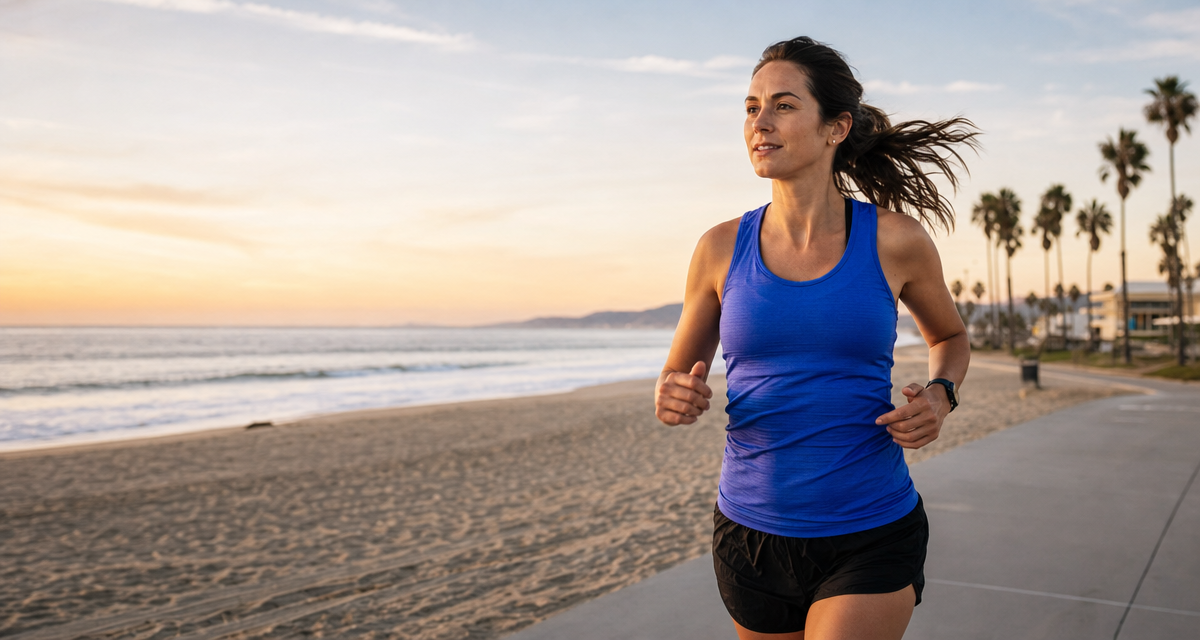
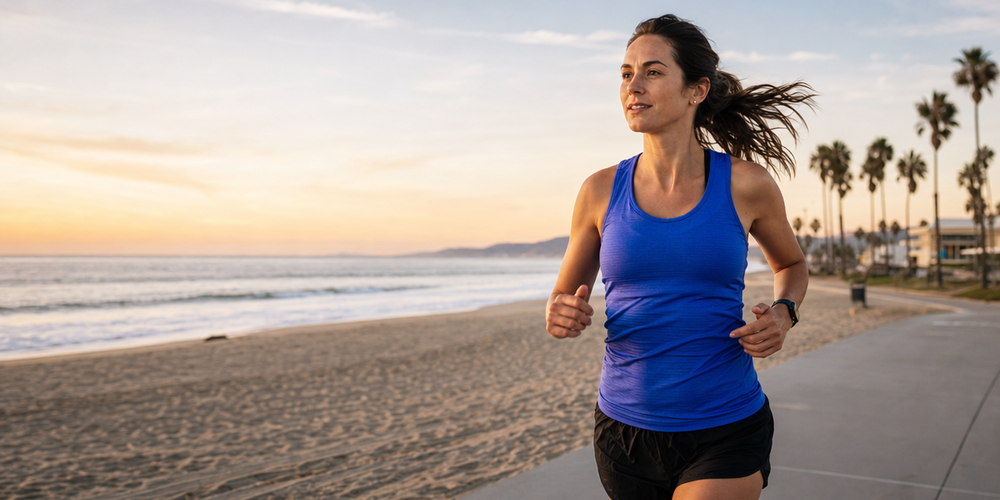
Align LA Marathon emails with asset specifications

diff --git a/emails/la-marathon-2026/asics-la-marathon.html b/emails/la-marathon-2026/asics-la-marathon.html
@@ -1,6 +1,6 @@
 <!doctype html>
 <html lang="en"><head><meta charset="utf-8"><meta name="viewport" content="width=device-width,initial-scale=1"><title>ASICS LA Marathon × RunDot</title><style>@media screen and (max-width:640px){.wrap{width:100%!important}.pad{padding-left:24px!important;padding-right:24px!important}.hero-title{font-size:35px!important;line-height:39px!important}.event-logo{max-width:155px!important;height:auto!important}.cta{display:block!important;text-align:center!important}}</style></head>
-<body style="margin:0;padding:0;background:#e9edf1;font-family:Arial,Helvetica,sans-serif;"><div style="display:none;max-height:0;overflow:hidden;opacity:0;mso-hide:all;">Your free personalized ASICS LA Marathon training plan starts today.</div>
+<body style="margin:0;padding:0;background:#e9edf1;font-family:Arial,Helvetica,sans-serif;"><div style="display:none;max-height:0;overflow:hidden;opacity:0;mso-hide:all;">Your plan awaits</div>
 <table role="presentation" width="100%" cellspacing="0" cellpadding="0" border="0" style="background:#e9edf1;"><tr><td align="center" style="padding:28px 8px;"><table class="wrap" role="presentation" width="600" cellspacing="0" cellpadding="0" border="0" style="width:600px;max-width:600px;background:#ffffff;">
 <tr><td style="background:#080a0c;padding:19px 32px 15px;"><table role="presentation" width="100%" cellspacing="0" cellpadding="0" border="0"><tr><td valign="middle"><img class="event-logo" src="assets/la-marathon-lockup.png" alt="ASICS Los Angeles Marathon" width="175" style="display:block;border:0;width:175px;height:auto;max-width:175px;"></td><td align="right" valign="middle"><img src="assets/rundot-logo.svg" alt="RunDot" width="88" style="display:block;border:0;width:88px;height:auto;"></td></tr></table></td></tr>
 <tr><td align="center" style="background:#080a0c;border-top:1px solid #28303a;padding:10px 20px 11px;color:#39ff14;font-size:10px;line-height:14px;letter-spacing:1.25px;font-weight:bold;">OFFICIAL DIGITAL TRAINING PLATFORM OF THE LA MARATHON RACE SERIES</td></tr>
@@ -10,6 +10,6 @@
 <tr><td class="pad" style="padding:26px 48px 13px;"><div style="font-size:20px;line-height:28px;color:#0e1725;font-weight:bold;">Your registration includes a free personalized training plan:</div></td></tr>
 <tr><td class="pad" style="padding:9px 48px 16px;"><table role="presentation" width="100%" cellspacing="0" cellpadding="0" border="0" style="background:#101b2d;"><tr><td style="padding:22px 23px 6px;"><table role="presentation" width="100%" cellspacing="0" cellpadding="0" border="0"><tr><td valign="top" width="23" style="color:#39ff14;font-size:20px;line-height:25px;font-weight:bold;">+</td><td style="padding:0 0 14px;color:#eef3f8;font-size:16px;line-height:24px;">Built from your real fitness: first marathon or PR attempt</td></tr><tr><td valign="top" width="23" style="color:#39ff14;font-size:20px;line-height:25px;font-weight:bold;">+</td><td style="padding:0 0 14px;color:#eef3f8;font-size:16px;line-height:24px;">Adapts every week, so one rough stretch never derails your buildup</td></tr><tr><td valign="top" width="23" style="color:#39ff14;font-size:20px;line-height:25px;font-weight:bold;">+</td><td style="padding:0 0 14px;color:#eef3f8;font-size:16px;line-height:24px;">Trains you for LA’s actual course conditions</td></tr><tr><td valign="top" width="23" style="color:#39ff14;font-size:20px;line-height:25px;font-weight:bold;">+</td><td style="padding:0 0 14px;color:#eef3f8;font-size:16px;line-height:24px;">Syncs with Garmin, Apple Watch, and more</td></tr></table></td></tr></table></td></tr>
 <tr><td class="pad" style="padding:13px 48px 12px;color:#0e1725;font-size:16px;line-height:25px;">Free to start. No credit card required.</td></tr>
-<tr><td align="center" class="pad" style="padding:18px 48px 43px;"><a class="cta" href="https://promo.rundot.com?promo=RUNLAM3" style="display:inline-block;background:#39ff14;color:#080a0c;text-decoration:none;padding:17px 25px;font-size:12px;line-height:15px;font-weight:bold;letter-spacing:.9px;">START MY MARATHON PLAN</a><div style="padding:21px 8px 0;color:#46566b;font-size:15px;line-height:23px;">On March 7, 25,000 runners will start. The prepared ones will love every mile of it. Be one of them.</div></td></tr>
+<tr><td align="center" class="pad" style="padding:18px 48px 43px;"><a class="cta" href="https://promo.rundot.com?promo=RUNLAM3" style="display:inline-block;background:#39ff14;color:#080a0c;text-decoration:none;padding:17px 25px;font-size:12px;line-height:15px;font-weight:bold;letter-spacing:.9px;">START MY PLAN</a><div style="padding:21px 8px 0;color:#46566b;font-size:15px;line-height:23px;">On March 7, 25,000 runners will start. The prepared ones will love every mile of it. Be one of them.</div></td></tr>
 <tr><td style="background:#080a0c;padding:23px 32px;"><table role="presentation" width="100%" cellspacing="0" cellpadding="0" border="0"><tr><td><img src="assets/rundot-logo.svg" alt="RunDot" width="117" height="24" style="display:block;border:0;width:117px;height:24px;"></td><td align="right" style="color:#b9c3ce;font-size:11px;line-height:16px;">For runners who want more than miles.</td></tr></table></td></tr>
 </table></td></tr></table></body></html>

diff --git a/emails/la-marathon-2026/santa-monica-classic.html b/emails/la-marathon-2026/santa-monica-classic.html
@@ -1,6 +1,6 @@
 <!doctype html>
 <html lang="en"><head><meta charset="utf-8"><meta name="viewport" content="width=device-width,initial-scale=1"><title>Santa Monica Classic 5K/10K × RunDot</title><style>@media screen and (max-width:640px){.wrap{width:100%!important}.pad{padding-left:24px!important;padding-right:24px!important}.hero-title{font-size:35px!important;line-height:39px!important}.event-logo{max-width:135px!important;height:auto!important}.cta{display:block!important;text-align:center!important}}</style></head>
-<body style="margin:0;padding:0;background:#e9edf1;font-family:Arial,Helvetica,sans-serif;"><div style="display:none;max-height:0;overflow:hidden;opacity:0;mso-hide:all;">Start your free personalized RunDot training plan for the Santa Monica Classic.</div>
+<body style="margin:0;padding:0;background:#e9edf1;font-family:Arial,Helvetica,sans-serif;"><div style="display:none;max-height:0;overflow:hidden;opacity:0;mso-hide:all;">Your plan awaits</div>
 <table role="presentation" width="100%" cellspacing="0" cellpadding="0" border="0" style="background:#e9edf1;"><tr><td align="center" style="padding:28px 8px;"><table class="wrap" role="presentation" width="600" cellspacing="0" cellpadding="0" border="0" style="width:600px;max-width:600px;background:#ffffff;">
 <tr><td style="background:#ffffff;padding:17px 32px;border-bottom:1px solid #dbe0e4;"><table role="presentation" width="100%" cellspacing="0" cellpadding="0" border="0"><tr><td valign="middle"><img class="event-logo" src="assets/santa-monica-classic-logo.jpg" alt="Santa Monica Classic" width="145" style="display:block;border:0;width:145px;height:auto;max-width:145px;"></td><td align="right" valign="middle"><img src="assets/rundot-logo-primary.png" alt="RunDot" width="94" style="display:block;border:0;width:94px;height:auto;"></td></tr></table></td></tr>
 <tr><td align="center" style="background:#080a0c;border-top:3px solid #39ff14;padding:11px 20px 12px;color:#39ff14;font-size:10px;line-height:14px;letter-spacing:1.25px;font-weight:bold;">OFFICIAL DIGITAL TRAINING PLATFORM OF THE LA MARATHON RACE SERIES</td></tr>
@@ -10,6 +10,6 @@
 <tr><td class="pad" style="padding:32px 48px 14px;"><div style="font-size:21px;line-height:29px;color:#0e1725;font-weight:bold;letter-spacing:-.25px;">Your registration includes a free personalized training plan:</div></td></tr>
 <tr><td class="pad" style="padding:9px 48px 16px;"><table role="presentation" width="100%" cellspacing="0" cellpadding="0" border="0" style="background:#101b2d;border-left:4px solid #39ff14;"><tr><td style="padding:23px 24px 7px;"><table role="presentation" width="100%" cellspacing="0" cellpadding="0" border="0"><tr><td valign="top" width="23" style="color:#39ff14;font-size:20px;line-height:25px;font-weight:bold;">+</td><td style="padding:0 0 14px;color:#eef3f8;font-size:16px;line-height:24px;">Built for your exact starting point: first 5K or fastest 10K</td></tr><tr><td valign="top" width="23" style="color:#39ff14;font-size:20px;line-height:25px;font-weight:bold;">+</td><td style="padding:0 0 14px;color:#eef3f8;font-size:16px;line-height:24px;">Adjusts automatically when life gets in the way</td></tr><tr><td valign="top" width="23" style="color:#39ff14;font-size:20px;line-height:25px;font-weight:bold;">+</td><td style="padding:0 0 14px;color:#eef3f8;font-size:16px;line-height:24px;">Syncs with Garmin, Apple Watch, and more</td></tr></table></td></tr></table></td></tr>
 <tr><td class="pad" style="padding:16px 48px 12px;color:#0e1725;font-size:16px;line-height:25px;">Takes 3 minutes to set up. No credit card required.</td></tr>
-<tr><td align="center" class="pad" style="padding:20px 48px 46px;"><a class="cta" href="https://promo.rundot.com?promo=RUNLAM3" style="display:inline-block;background:#39ff14;color:#080a0c;text-decoration:none;padding:18px 29px;font-size:12px;line-height:15px;font-weight:bold;letter-spacing:1px;">START MY FREE TRAINING PLAN</a><div style="padding:21px 8px 0;color:#46566b;font-size:15px;line-height:23px;">Show up on September 13 knowing you did the work. We’ll handle the plan.</div></td></tr>
+<tr><td align="center" class="pad" style="padding:20px 48px 46px;"><a class="cta" href="https://promo.rundot.com?promo=RUNLAM3" style="display:inline-block;background:#39ff14;color:#080a0c;text-decoration:none;padding:18px 29px;font-size:12px;line-height:15px;font-weight:bold;letter-spacing:1px;">START MY PLAN</a><div style="padding:21px 8px 0;color:#46566b;font-size:15px;line-height:23px;">Show up on September 13 knowing you did the work. We’ll handle the plan.</div></td></tr>
 <tr><td style="background:#080a0c;padding:23px 32px;"><table role="presentation" width="100%" cellspacing="0" cellpadding="0" border="0"><tr><td><img src="assets/rundot-logo.svg" alt="RunDot" width="117" height="24" style="display:block;border:0;width:117px;height:24px;"></td><td align="right" style="color:#b9c3ce;font-size:11px;line-height:16px;">For runners who want more than miles.</td></tr></table></td></tr>
 </table></td></tr></table></body></html>

diff --git a/emails/la-marathon-2026/rose-bowl-half.html b/emails/la-marathon-2026/rose-bowl-half.html
@@ -1,6 +1,6 @@
 <!doctype html>
 <html lang="en"><head><meta charset="utf-8"><meta name="viewport" content="width=device-width,initial-scale=1"><title>Rose Bowl Half Marathon & 5K × RunDot</title><style>@media screen and (max-width:640px){.wrap{width:100%!important}.pad{padding-left:24px!important;padding-right:24px!important}.hero-title{font-size:35px!important;line-height:39px!important}.event-logo{max-width:155px!important;height:auto!important}.cta{display:block!important;text-align:center!important}}</style></head>
-<body style="margin:0;padding:0;background:#e9edf1;font-family:Arial,Helvetica,sans-serif;"><div style="display:none;max-height:0;overflow:hidden;opacity:0;mso-hide:all;">Build your free, personalized plan for the Rose Bowl Half Marathon & 5K.</div>
+<body style="margin:0;padding:0;background:#e9edf1;font-family:Arial,Helvetica,sans-serif;"><div style="display:none;max-height:0;overflow:hidden;opacity:0;mso-hide:all;">Your plan awaits</div>
 <table role="presentation" width="100%" cellspacing="0" cellpadding="0" border="0" style="background:#e9edf1;"><tr><td align="center" style="padding:28px 8px;"><table class="wrap" role="presentation" width="600" cellspacing="0" cellpadding="0" border="0" style="width:600px;max-width:600px;background:#ffffff;">
 <tr><td style="background:#080a0c;padding:19px 32px 15px;"><table role="presentation" width="100%" cellspacing="0" cellpadding="0" border="0"><tr><td valign="middle"><img class="event-logo" src="assets/rose-bowl-lockup.png" alt="Rose Bowl Half Marathon & 5K" width="175" style="display:block;border:0;width:175px;height:auto;max-width:175px;"></td><td align="right" valign="middle"><img src="assets/rundot-logo.svg" alt="RunDot" width="88" style="display:block;border:0;width:88px;height:auto;"></td></tr></table></td></tr>
 <tr><td align="center" style="background:#080a0c;border-top:1px solid #28303a;padding:10px 20px 11px;color:#39ff14;font-size:10px;line-height:14px;letter-spacing:1.25px;font-weight:bold;">OFFICIAL DIGITAL TRAINING PLATFORM OF THE LA MARATHON RACE SERIES</td></tr>
@@ -10,6 +10,6 @@
 <tr><td class="pad" style="padding:26px 48px 13px;"><div style="font-size:20px;line-height:28px;color:#0e1725;font-weight:bold;">Included with your registration, free:</div></td></tr>
 <tr><td class="pad" style="padding:9px 48px 16px;"><table role="presentation" width="100%" cellspacing="0" cellpadding="0" border="0" style="background:#101b2d;"><tr><td style="padding:22px 23px 6px;"><table role="presentation" width="100%" cellspacing="0" cellpadding="0" border="0"><tr><td valign="top" width="23" style="color:#39ff14;font-size:20px;line-height:25px;font-weight:bold;">+</td><td style="padding:0 0 14px;color:#eef3f8;font-size:16px;line-height:24px;">A half-marathon plan matched to your fitness and your race-day goal</td></tr><tr><td valign="top" width="23" style="color:#39ff14;font-size:20px;line-height:25px;font-weight:bold;">+</td><td style="padding:0 0 14px;color:#eef3f8;font-size:16px;line-height:24px;">Weekly adaptation: miss a run, get injured-adjacent, travel for work? Your plan adjusts</td></tr><tr><td valign="top" width="23" style="color:#39ff14;font-size:20px;line-height:25px;font-weight:bold;">+</td><td style="padding:0 0 14px;color:#eef3f8;font-size:16px;line-height:24px;">Full sync with Garmin, Apple Watch, and more</td></tr></table></td></tr></table></td></tr>
 <tr><td class="pad" style="padding:13px 48px 12px;color:#0e1725;font-size:16px;line-height:25px;">Free to start. No credit card required.</td></tr>
-<tr><td align="center" class="pad" style="padding:18px 48px 43px;"><a class="cta" href="https://promo.rundot.com?promo=RUNLAM3" style="display:inline-block;background:#39ff14;color:#080a0c;text-decoration:none;padding:17px 25px;font-size:12px;line-height:15px;font-weight:bold;letter-spacing:.9px;">BUILD MY HALF MARATHON PLAN</a><div style="padding:21px 8px 0;color:#46566b;font-size:15px;line-height:23px;">January 17 is coming either way. Arrive at the Rose Bowl ready.</div></td></tr>
+<tr><td align="center" class="pad" style="padding:18px 48px 43px;"><a class="cta" href="https://promo.rundot.com?promo=RUNLAM3" style="display:inline-block;background:#39ff14;color:#080a0c;text-decoration:none;padding:17px 25px;font-size:12px;line-height:15px;font-weight:bold;letter-spacing:.9px;">BUILD MY PLAN</a><div style="padding:21px 8px 0;color:#46566b;font-size:15px;line-height:23px;">January 17 is coming either way. Arrive at the Rose Bowl ready.</div></td></tr>
 <tr><td style="background:#080a0c;padding:23px 32px;"><table role="presentation" width="100%" cellspacing="0" cellpadding="0" border="0"><tr><td><img src="assets/rundot-logo.svg" alt="RunDot" width="117" height="24" style="display:block;border:0;width:117px;height:24px;"></td><td align="right" style="color:#b9c3ce;font-size:11px;line-height:16px;">For runners who want more than miles.</td></tr></table></td></tr>
 </table></td></tr></table></body></html>

diff --git a/emails/la-marathon-2026/EMAIL-SEND-SPECS.md b/emails/la-marathon-2026/EMAIL-SEND-SPECS.md
@@ -1,0 +1,11 @@
+# LA Marathon Race Series: email send specifications
+
+Apply these values in the sending platform. The preview text remains editable in the HTML templates.
+
+| Email | Recommended subject | Default preview text | Hero graphic | CTA |
+|---|---|---|---|---|
+| Santa Monica Classic 5K/10K | Your Santa Monica plan | Your plan awaits | `assets/santa-monica-hero.png` (1000 × 500 px) | START MY PLAN |
+| Rose Bowl Half Marathon & 5K | Your Rose Bowl plan | Your plan awaits | `assets/rose-bowl-hero.png` (1000 × 500 px) | BUILD MY PLAN |
+| ASICS LA Marathon | Your LA Marathon plan | Your plan awaits | `assets/la-marathon-hero.png` (1000 × 500 px) | START MY PLAN |
+
+All subjects are within the eight-word limit; all preview-text defaults are within the 20-character limit. The email main copy remains two paragraphs, and each CTA is one to three words plus its existing link.
